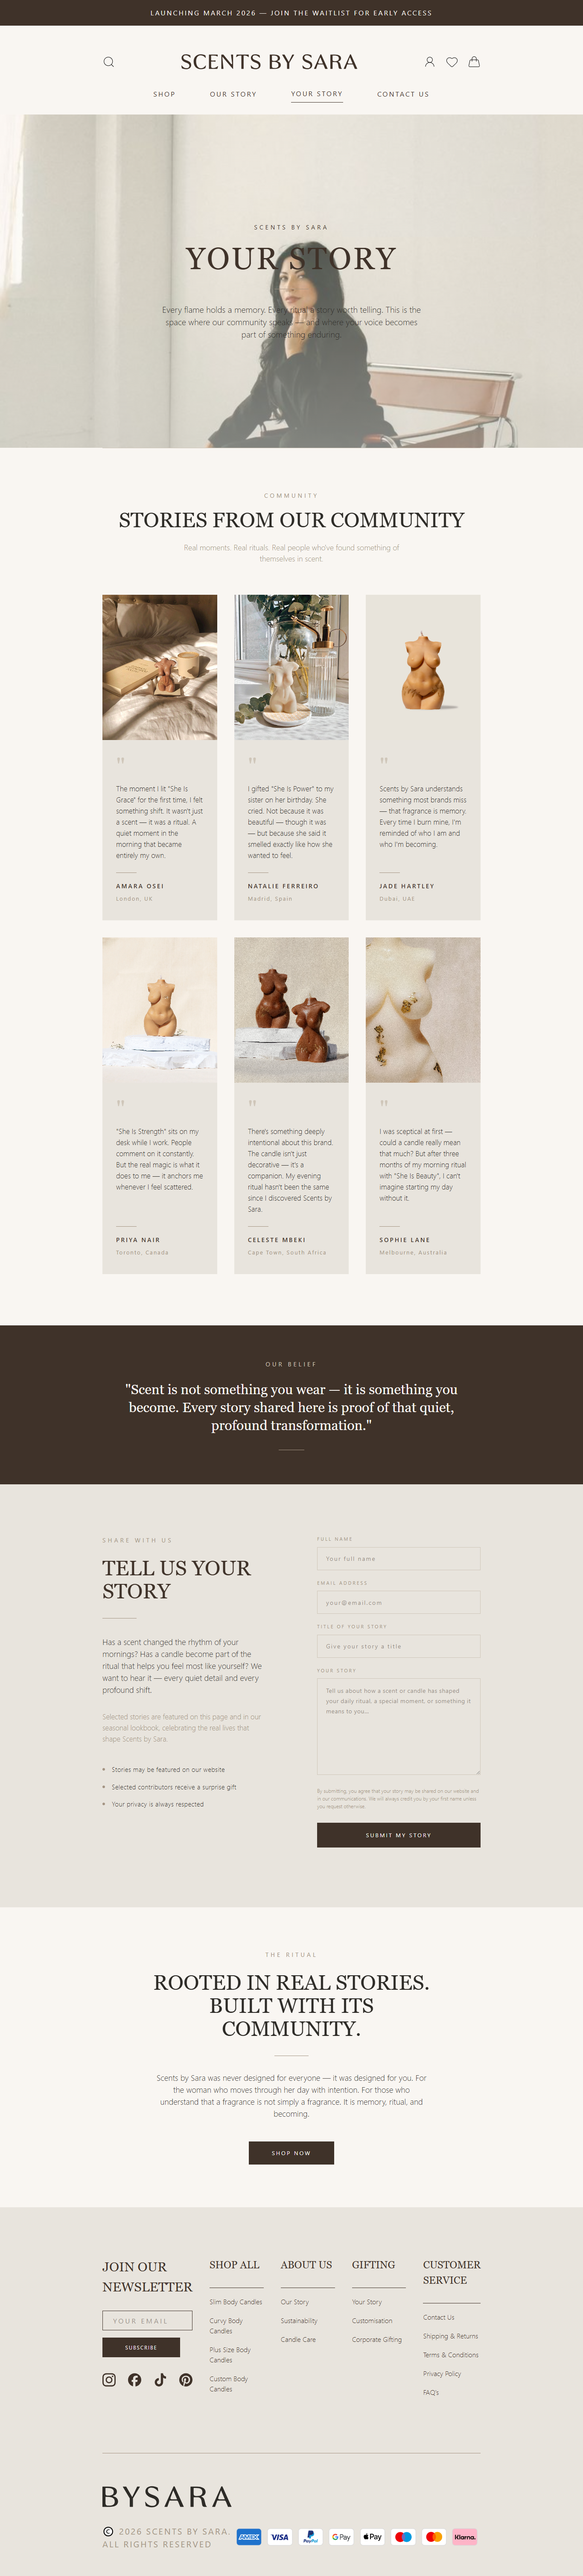
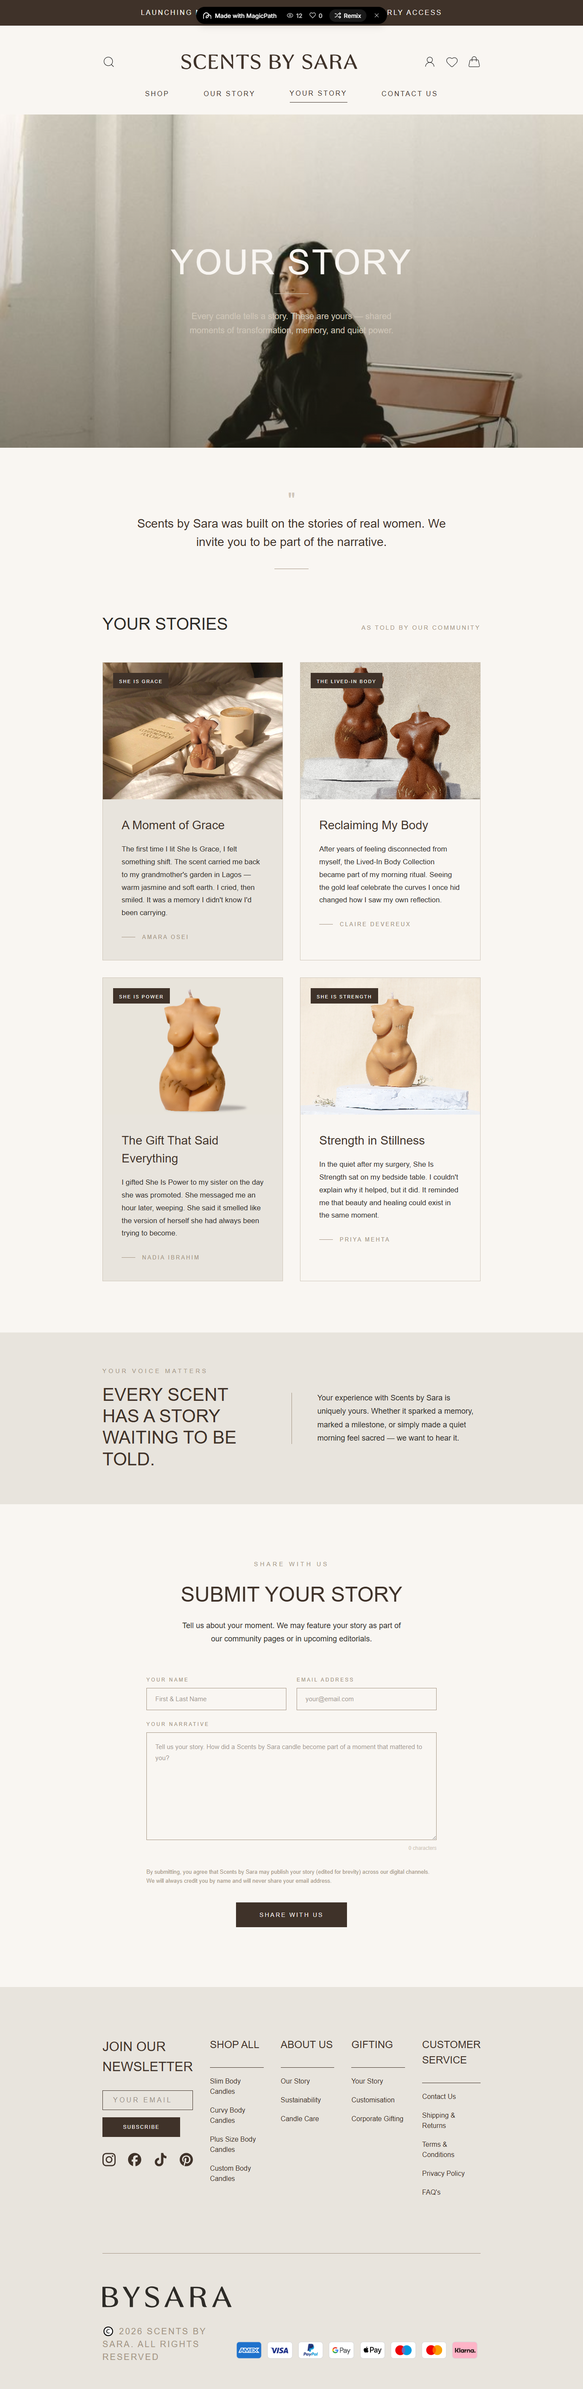
Update Your Story page to exactly match layout, typography, section formatting and card styles shown in your-story.png

diff --git a/your-story.html b/your-story.html
@@ -161,7 +161,9 @@
         <section class="story-hero mt-0">
             <div class="story-hero-overlay"></div>
             <div class="story-hero-content">
-                <h1 class="font-sans mb-4" style="font-size: 40px; text-transform: uppercase;">YOUR STORY</h1>
+                <h1 class="font-sans mb-4"
+                    style="font-size: 48px; text-transform: uppercase; letter-spacing: 0.1em; font-weight: 400;">YOUR
+                    STORY</h1>
                 <hr style="width: 40px; margin: 0 auto; border: none; border-top: 2px solid white;">
                 <p class="text-body mt-8 mx-auto"
                     style="font-size: 14px; max-width: 500px; color: rgba(255,255,255,0.9);">Every candle tells a story.
@@ -190,7 +192,7 @@
             <div class="grid-cols-2 gap-8 masonry-grid">
                 <!-- Col 1 -->
                 <div class="masonry-col">
-                    <!-- Card 1 (Short) -->
+                    <!-- Card 1 -->
                     <div class="ys-card mb-8">
                         <div class="ys-img-wrap" style="aspect-ratio: 4/3; position: relative;">
                             <span class="ys-badge"
@@ -199,31 +201,35 @@
                             <img src="assets/images/product-2.png" alt="A Moment of Grace"
                                 style="width:100%; height:100%; object-fit:cover;">
                         </div>
-                        <div class="ys-content" style="background: var(--bg-secondary); padding: 24px;">
-                            <h3 class="font-sans text-md font-weight-normal">A Moment of Grace</h3>
+                        <div class="ys-content" style="background: #E8E6E1; padding: 40px;">
+                            <h3 class="font-sans text-md font-weight-normal mb-4" style="font-size: 24px;">A Moment of
+                                Grace</h3>
+                            <p class="text-sm text-muted mb-8" style="line-height: 1.6;">The first time I lit She Is
+                                Grace, I felt something shift. The scent carried me back to my grandmother's garden in
+                                Lagos — warm jasmine and soft earth. I cried, then smiled. It was a memory I didn't know
+                                I'd been carrying.</p>
+                            <span class="ys-author text-micro text-muted uppercase tracking-widest"
+                                style="border-top: 1px solid var(--border-light); padding-top: 16px; display: block; font-size: 10px;">—
+                                AMARA OSEI</span>
                         </div>
                     </div>
-                    <!-- Card 3 (Long) -->
+                    <!-- Card 3 -->
                     <div class="ys-card mb-8">
                         <div class="ys-img-wrap" style="aspect-ratio: 4/3; position: relative;">
                             <span class="ys-badge"
                                 style="position: absolute; top: 16px; left: 16px; background: rgba(63, 50, 41, 0.8); color: white; padding: 4px 8px; font-size: 10px; text-transform: uppercase; letter-spacing: 0.1em; z-index: 2;">SHE
-                                IS GRACE</span>
-                            <img src="assets/images/product-2.png" alt="The Gift That Said Everything"
+                                IS POWER</span>
+                            <img src="assets/images/product-4.png" alt="The Gift That Said Everything"
                                 style="width:100%; height:100%; object-fit:cover;">
                         </div>
-                        <div class="ys-content text-bg" style="background: var(--bg-secondary); padding: 24px;">
-                            <h3 class="font-sans text-md font-weight-normal mb-6">A Moment of Grace</h3>
-                            <div class="ys-img-wrap mb-6" style="aspect-ratio: 1/1;">
-                                <img src="assets/images/product-4.png" alt="Candle"
-                                    style="width:100%; height:100%; object-fit:cover;">
-                            </div>
-                            <h4 class="font-sans text-md font-weight-normal mb-4">The Gift That Said Everything</h4>
+                        <div class="ys-content" style="background: #E8E6E1; padding: 40px;">
+                            <h3 class="font-sans text-md font-weight-normal mb-4" style="font-size: 24px;">The Gift That
+                                Said Everything</h3>
                             <p class="text-sm text-muted mb-8" style="line-height: 1.6;">I gifted She Is Power to my
                                 sister on the day she was promoted. She messaged me an hour later, weeping. She said it
                                 smelled like the version of herself she had always been trying to become.</p>
                             <span class="ys-author text-micro text-muted uppercase tracking-widest"
-                                style="border-top: 1px solid var(--border-light); padding-top: 16px; display: block; font-size: 9px;">—
+                                style="border-top: 1px solid var(--border-light); padding-top: 16px; display: block; font-size: 10px;">—
                                 NADIA IBRAHIM</span>
                         </div>
                     </div>
@@ -231,40 +237,44 @@
 
                 <!-- Col 2 -->
                 <div class="masonry-col" style="margin-top: 0px;">
-                    <!-- Card 2 (Short) -->
+                    <!-- Card 2 -->
                     <div class="ys-card mb-8">
                         <div class="ys-img-wrap" style="aspect-ratio: 4/3; position: relative;">
                             <span class="ys-badge"
                                 style="position: absolute; top: 16px; left: 16px; background: rgba(63, 50, 41, 0.8); color: white; padding: 4px 8px; font-size: 10px; text-transform: uppercase; letter-spacing: 0.1em; z-index: 2;">THE
-                                LINED IN BODY</span>
+                                LIVED-IN BODY</span>
                             <img src="assets/images/product-1.png" alt="Reclaiming My Body"
                                 style="width:100%; height:100%; object-fit:cover;">
                         </div>
-                        <div class="ys-content" style="background: var(--bg-secondary); padding: 24px;">
-                            <h3 class="font-sans text-md font-weight-normal">Reclaiming My Body</h3>
+                        <div class="ys-content" style="background: #F6F4EF; padding: 40px;">
+                            <h3 class="font-sans text-md font-weight-normal mb-4" style="font-size: 24px;">Reclaiming My
+                                Body</h3>
+                            <p class="text-sm text-muted mb-8" style="line-height: 1.6;">After years of feeling
+                                disconnected from myself, the Lived-In Body Collection became part of my morning ritual.
+                                Seeing the gold leaf celebrate the curves I once hid changed how I saw my own
+                                reflection.</p>
+                            <span class="ys-author text-micro text-muted uppercase tracking-widest"
+                                style="border-top: 1px solid var(--border-light); padding-top: 16px; display: block; font-size: 10px;">—
+                                CLAIRE DEVEREUX</span>
                         </div>
                     </div>
-                    <!-- Card 4 (Long) -->
+                    <!-- Card 4 -->
                     <div class="ys-card mb-8">
                         <div class="ys-img-wrap" style="aspect-ratio: 4/3; position: relative;">
                             <span class="ys-badge"
-                                style="position: absolute; top: 16px; left: 16px; background: rgba(63, 50, 41, 0.8); color: white; padding: 4px 8px; font-size: 10px; text-transform: uppercase; letter-spacing: 0.1em; z-index: 2;">THE
-                                LINED IN BODY</span>
-                            <img src="assets/images/product-1.png" alt="Strength in Stillness"
+                                style="position: absolute; top: 16px; left: 16px; background: rgba(63, 50, 41, 0.8); color: white; padding: 4px 8px; font-size: 10px; text-transform: uppercase; letter-spacing: 0.1em; z-index: 2;">SHE
+                                IS STRENGTH</span>
+                            <img src="assets/images/product-3.png" alt="Strength in Stillness"
                                 style="width:100%; height:100%; object-fit:cover;">
                         </div>
-                        <div class="ys-content text-bg" style="background: var(--bg-secondary); padding: 24px;">
-                            <h3 class="font-sans text-md font-weight-normal mb-6">Reclaiming My Body</h3>
-                            <div class="ys-img-wrap mb-6" style="aspect-ratio: 16/9;">
-                                <img src="assets/images/product-3.png" alt="Candle base"
-                                    style="width:100%; height:100%; object-fit:cover;">
-                            </div>
-                            <h4 class="font-sans text-md font-weight-normal mb-4">Strength in Stillness</h4>
+                        <div class="ys-content" style="background: #F6F4EF; padding: 40px;">
+                            <h3 class="font-sans text-md font-weight-normal mb-4" style="font-size: 24px;">Strength in
+                                Stillness</h3>
                             <p class="text-sm text-muted mb-8" style="line-height: 1.6;">In the quiet after my surgery,
                                 She Is Strength sat on my bedside table. I couldn't explain why it helped, but it did.
                                 It reminded me that beauty and healing could exist in the same moment.</p>
                             <span class="ys-author text-micro text-muted uppercase tracking-widest"
-                                style="border-top: 1px solid var(--border-light); padding-top: 16px; display: block; font-size: 9px;">—
+                                style="border-top: 1px solid var(--border-light); padding-top: 16px; display: block; font-size: 10px;">—
                                 PRIYA MEHTA</span>
                         </div>
                     </div>
@@ -296,8 +306,8 @@
             style="max-width: 800px; padding: 120px 24px;">
             <span class="eyebrow text-muted uppercase tracking-widest"
                 style="font-size: 10px; letter-spacing: 0.2em;">SHARE WITH US</span>
-            <h2 class="font-sans text-h2 font-weight-normal mt-6 mb-4"
-                style="text-transform: uppercase; font-size: 32px;">SUBMIT YOUR STORY</h2>
+            <h2 class="font-serif text-h1 font-weight-normal mt-6 mb-4"
+                style="text-transform: uppercase; font-size: 36px; letter-spacing: 0.05em;">SUBMIT YOUR STORY</h2>
             <p class="text-sm text-muted mb-12" style="margin-bottom: 48px;">Tell us about your moment. We may feature
                 your story as part of our community pages or in upcoming editorials.</p>
 
@@ -327,14 +337,17 @@
                         placeholder="Tell us your story. How did a Scents by Sara candle become part of a moment that mattered to you?"
                         class="ys-input ys-textarea form-input"
                         style="width: 100%; border: 1px solid var(--border-heavy); padding: 16px; min-height: 200px; resize: none; background: transparent;"></textarea>
+                    <div
+                        style="text-align: right; font-size: 10px; color: #a39382; padding-top: 4px; letter-spacing: 0;">
+                        0 characters</div>
                 </div>
                 <p class="ys-disclaimer text-muted mb-8"
                     style="font-size: 9px; line-height: 1.4; color: #a39382; margin-bottom: 32px;">By submitting, you
                     agree that Scents by Sara may publish your story (edited for brevity) across our digital channels.
-                    We will always email you by name and will never share your email address.</p>
+                    We will always credit you by name and will never share your email address.</p>
                 <div class="text-center">
                     <button type="submit" class="btn-hero"
-                        style="font-size:10px; padding:16px 48px; background: var(--color-mocha); color: white; border: none; letter-spacing: 0.1em;">SHARE
+                        style="font-size:10px; padding:16px 48px; background: var(--color-mocha); color: white; border: none; letter-spacing: 0.1em; width: 250px;">SHARE
                         WITH US</button>
                 </div>
             </form>

diff --git a/css/responsive.css b/css/responsive.css
@@ -17,6 +17,14 @@
         --gutter: 48px;
     }
 
+    .footer-bottom-row {
+        display: block;
+    }
+
+    .product-grid {
+        grid-template-columns: repeat(2, 1fr);
+    }
+
     /* Grid overrides */
     .grid-cols-4 {
         grid-template-columns: repeat(3, 1fr);
@@ -52,6 +60,11 @@
     .nav-icons .hamburger-btn {
         display: flex !important;
     }
+
+    .grid-cols-2 {
+        grid-template-columns: 1fr;
+        gap: var(--space-lg);
+    }
 }
 
 /* --- 768px (Mobile & Tablet Portrait) --- */
@@ -66,10 +79,7 @@
         grid-template-columns: repeat(2, 1fr);
     }
 
-    .grid-cols-2 {
-        grid-template-columns: 1fr;
-        gap: var(--space-lg);
-    }
+
 
     /* Sections */
     .section-block {
@@ -129,6 +139,10 @@
         bottom: -40px;
         right: -20px;
     }
+
+    .product-grid {
+        grid-template-columns: repeat(2, 1fr);
+    }
 }
 
 /* --- 480px (Small Mobile Threshold) --- */
@@ -136,6 +150,11 @@
     .grid-cols-4 {
         grid-template-columns: 1fr;
     }
+
+    .product-grid {
+        grid-template-columns: repeat(1, 1fr);
+    }
+
 }
 
 /* --- 375px (iPhone SE Size) --- */

diff --git a/assets/css/product.css b/assets/css/product.css
@@ -16,7 +16,7 @@
 /* PRODUCT MAIN CONTAINER */
 .product-main {
     gap: 64px;
-    margin-bottom: 120px;
+    margin-bottom: 60px;
 }
 
 /* PRODUCT IMAGES */
@@ -393,7 +393,7 @@
 
 /* YOU MAY ALSO LIKE */
 .related-products {
-    padding: 60px 0;
+    padding-top: 60px;
     border-bottom: 1px solid var(--border-light);
 }
 
